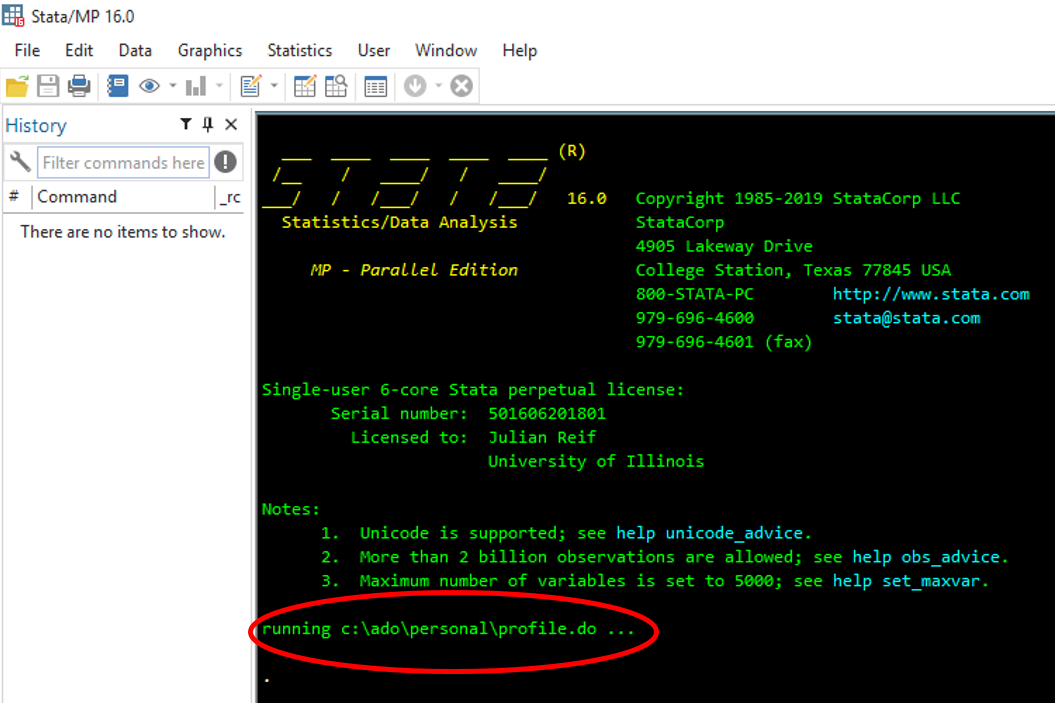
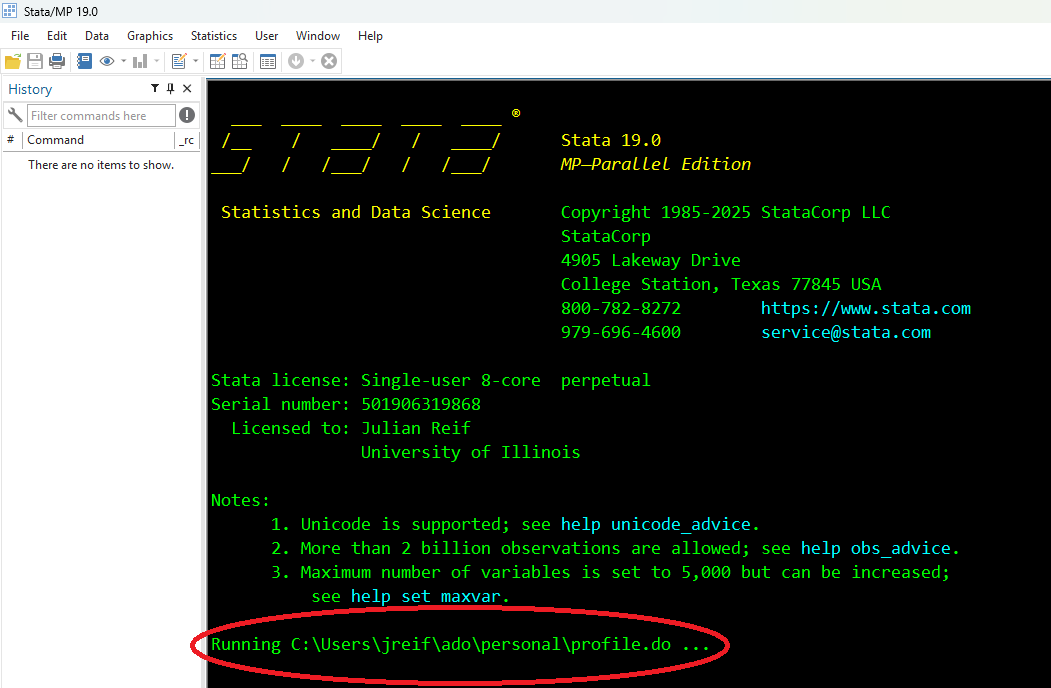
updated profile info

Changed region(s): [[0.0, 0.0, 1.0, 1.0], [0.274, 0.3663, 0.4872, 0.3968]]

diff --git a/_pages/guide.md b/_pages/guide.md
@@ -41,7 +41,7 @@ Stata automatically runs the script **profile.do** upon launch (if found).
 
 <img src="../assets/guide/stata_profile.PNG" width="100%" title="Stata profile">
 
-**profile.do** must be stored in one of the paths searched by Stata. Type `adopath` at the Stata prompt to view a list of the eligible paths for your particular computer. On my mac, I store this file in **/Users/jreif/Documents/Stata/ado/personal/profile.do**. On my PC, I store it in **C:/ado/personal/profile.do**.
+**profile.do** must be stored in one of the paths searched by Stata. Type `adopath` at the Stata prompt to view a list of the eligible paths for your particular computer. On my mac, I store this file in **/Users/jreif/Documents/Stata/ado/personal/profile.do**. On my PC, I store it in **C:/users/jreif/ado/personal/profile.do**.
 
 Here are the contents of the Stata profile stored on my PC:
 ```stata
